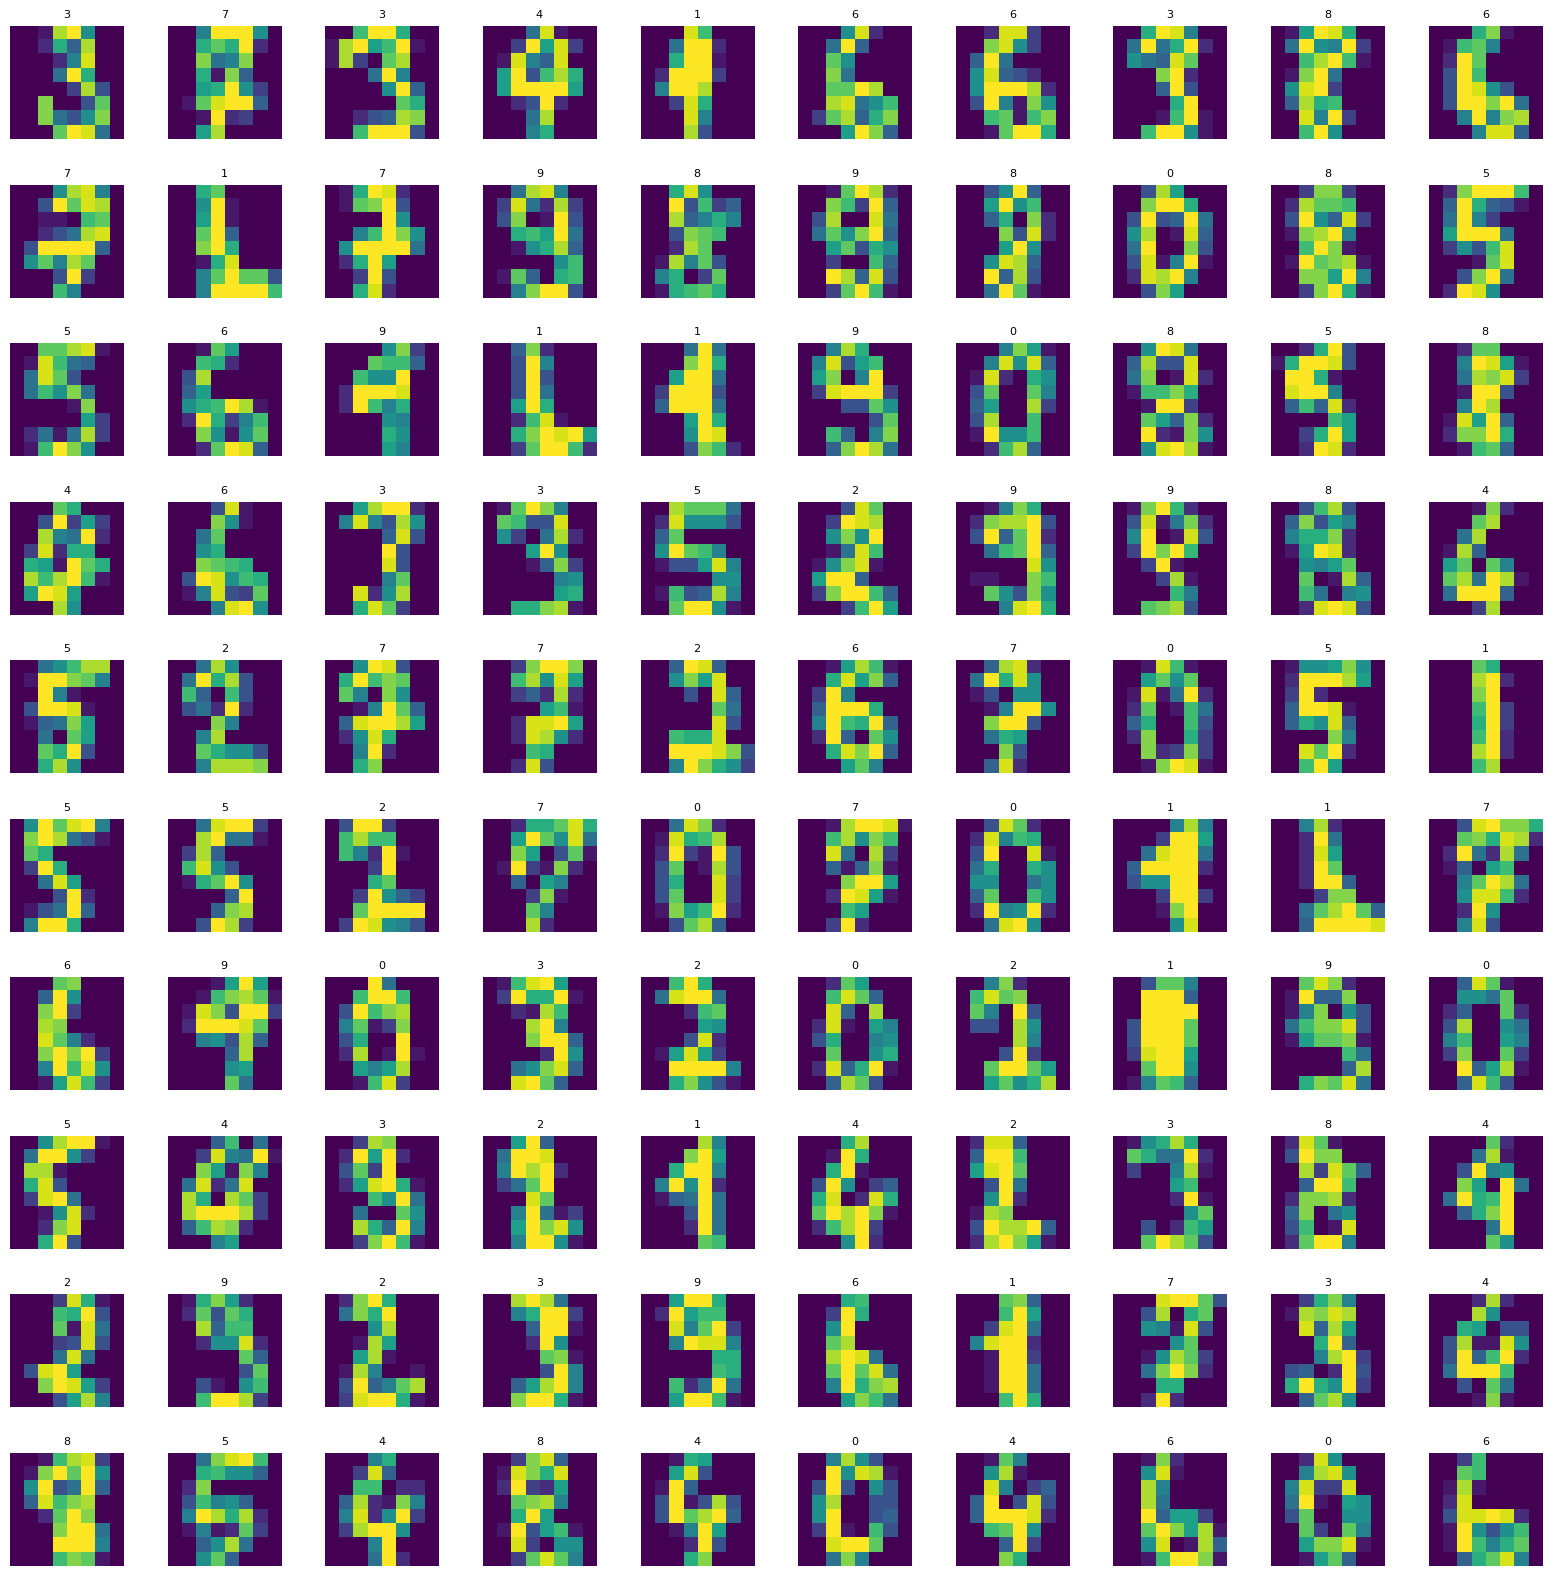
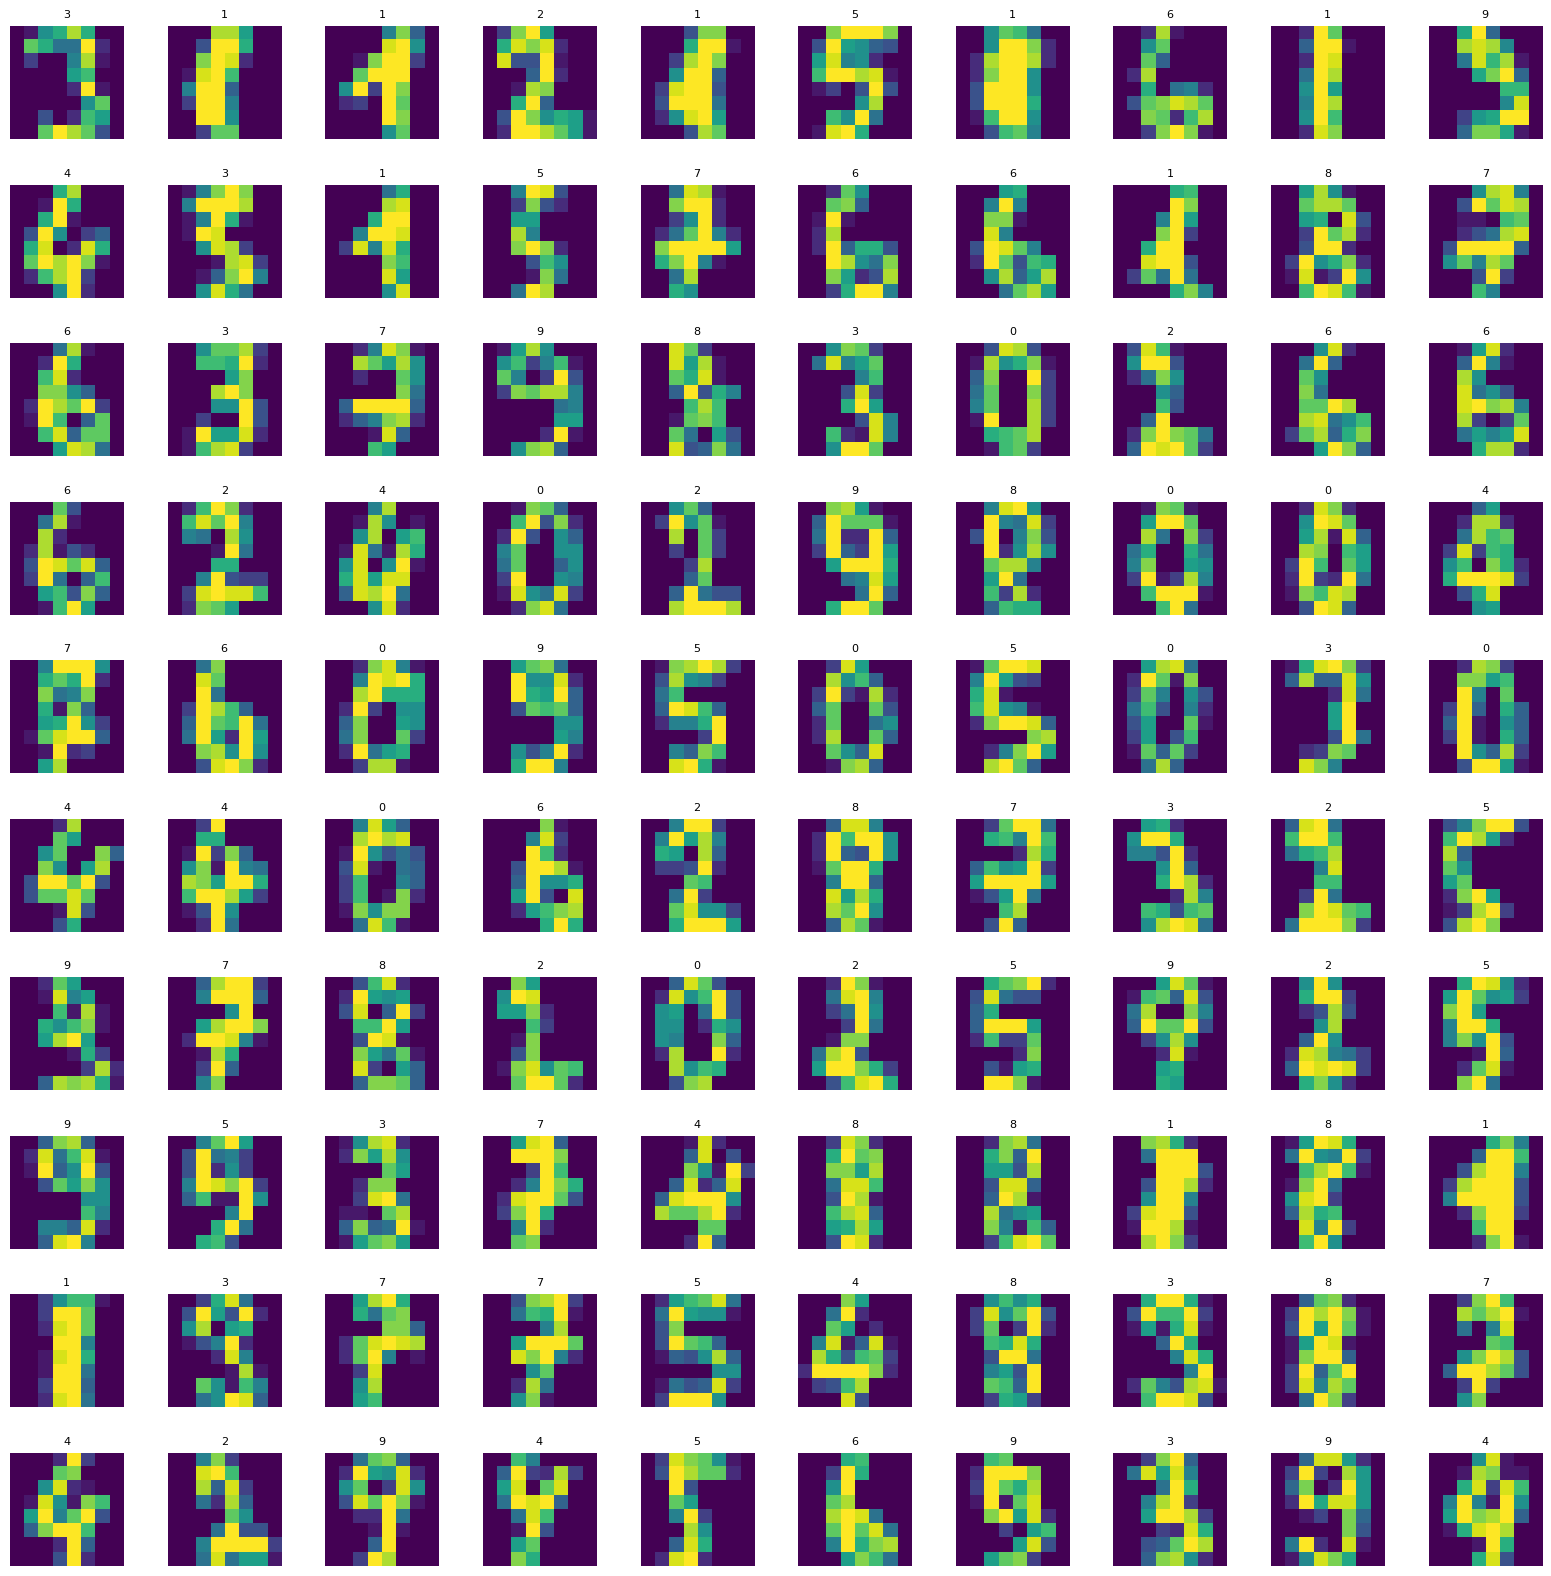
tests: change args passed to function to make it more simpler

diff --git a/tests/test_visualizations.py b/tests/test_visualizations.py
@@ -26,7 +26,7 @@ def digits_data():
 
 def test_plot_images_basic(sample_images):
     output_path = "examples/visualizations/test_images.png"
-    plot_images(sample_images, num_samples=30, num_cols=5, output_path=output_path)
+    plot_images(sample_images, num_samples=30, output_path=output_path)
 
 
 def test_plot_images_with_targets(sample_images, sample_targets):
@@ -34,7 +34,6 @@ def test_plot_images_with_targets(sample_images, sample_targets):
     plot_images(
         sample_images,
         num_samples=30,
-        num_cols=5,
         targets=sample_targets,
         ordered_plot=True,
         output_path=output_path,
@@ -52,7 +51,6 @@ def test_plot_images_with_sklearn_digits(digits_data):
     plot_images(
         images,
         num_samples=100,
-        num_cols=10,
         targets=targets,
         ordered_plot=True,
         output_path=output_path,
